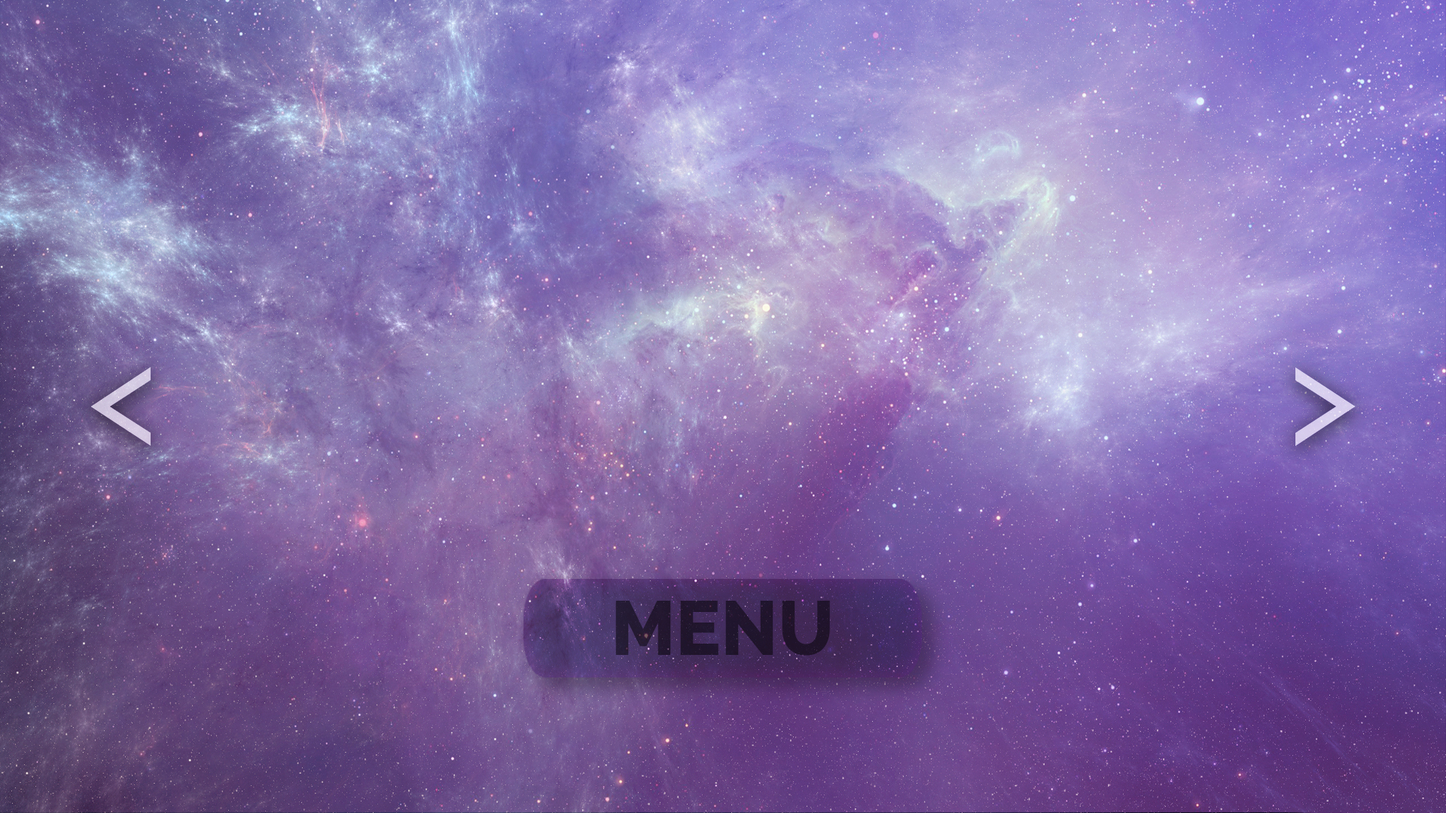
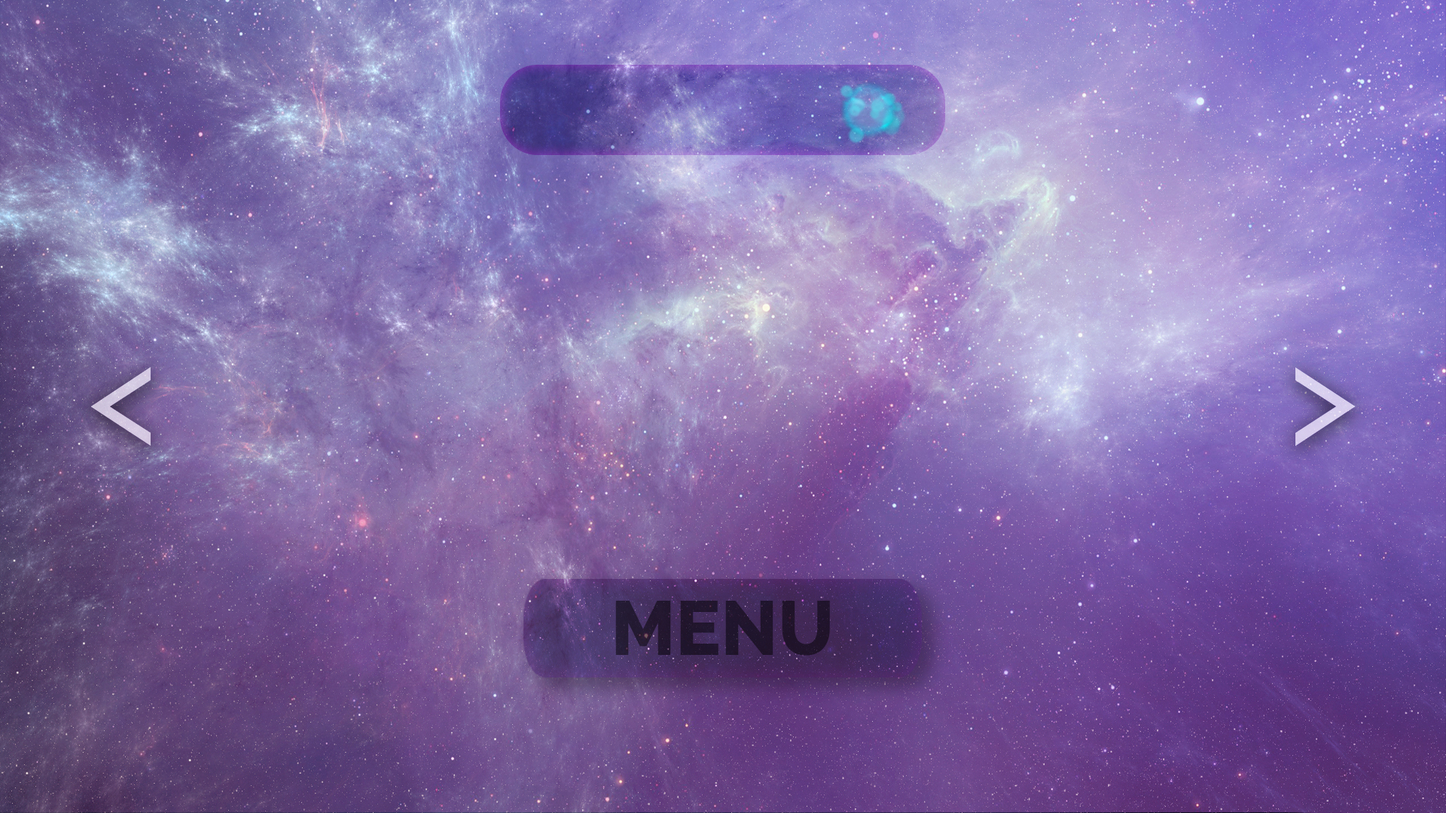
Added click/drag buttons, total energy in hangar

Changed region(s): [[0.3438, 0.0611, 0.6562, 0.2139]]

diff --git a/Game/core/src/com/tastysandwich/gameworld/GameRenderer.java b/Game/core/src/com/tastysandwich/gameworld/GameRenderer.java
@@ -7,7 +7,6 @@ import com.badlogic.gdx.graphics.Texture;
 import com.badlogic.gdx.graphics.g2d.Animation;
 import com.badlogic.gdx.graphics.g2d.Sprite;
 import com.badlogic.gdx.graphics.g2d.SpriteBatch;
-import com.badlogic.gdx.scenes.scene2d.utils.SpriteDrawable;
 import com.tastysandwich.gameobjects.Ship;
 import com.tastysandwich.gameobjects.Energy;
 import com.tastysandwich.helpers.AssetLoader;
@@ -143,7 +142,7 @@ public class GameRenderer {
     private void renderPause(float runTime) {
         drawBackground(false);
         batcher.enableBlending();
-        batcher.draw(shipAnimation.getKeyFrame(runTime), ship.getX(), ship.getY(), ship.getWidth() / 2.0f, ship.getHeight() / 2.0f, ship.getWidth(), ship.getHeight(), 1, 1, ship.getRotation());
+        batcher.draw(shipAnimation.getKeyFrame(runTime), ship.getX(), ship.getY(), ship.getWidth() / 1.5f, ship.getHeight() / 2.0f, ship.getWidth(), ship.getHeight(), 1, 1, ship.getRotation());
         for (int i = 0; i <= myWorld.nAsteroids; i++) {
             batcher.draw(textAsteroids[myWorld.asteroids[i].getType()], myWorld.asteroids[i].getX(), myWorld.asteroids[i].getY(), myWorld.asteroids[i].getRadius() / 2.0f, myWorld.asteroids[i].getRadius() / 2.0f,  myWorld.asteroids[i].getRadius(), myWorld.asteroids[i].getRadius(), 1, 1,
                     myWorld.asteroids[i].getRotation(), 0, 0, 1000, 1000, false, false);
@@ -154,19 +153,19 @@ public class GameRenderer {
         }
         hit.draw(batcher);
         renderEnergyBar();
+        pauseScreen.draw(batcher);
         AssetLoader.font.draw(batcher, "" + myWorld.getScore(), width / 2 - AssetLoader.font.getBounds(String.valueOf(myWorld.getScore())).width / 2, height / 16);
         if (myWorld.getMusicPlay()) {
             soundsT.draw(batcher);
         } else {
             soundsF.draw(batcher);
         }
-        pauseScreen.draw(batcher);
     }
 
     private void renderReady(float runTime) {
         drawBackground(true);
         batcher.enableBlending();
-        batcher.draw(shipAnimation.getKeyFrame(runTime), ship.getX(), ship.getY(), ship.getWidth() / 2.0f, ship.getHeight() / 2.0f, ship.getWidth(), ship.getHeight(), 1, 1, ship.getRotation());
+        batcher.draw(shipAnimation.getKeyFrame(runTime), ship.getX(), ship.getY(), ship.getWidth() / 1.5f, ship.getHeight() / 2.0f, ship.getWidth(), ship.getHeight(), 1, 1, ship.getRotation());
         renderEnergyBar();
         AssetLoader.font.draw(batcher, "" + myWorld.getScore(), width / 2 - AssetLoader.font.getBounds(String.valueOf(myWorld.getScore())).width / 2, height / 16);
         startScreen.draw(batcher);
@@ -215,7 +214,7 @@ public class GameRenderer {
     private void renderRunning(float runTime, float delta) {
         drawBackground(true);
         batcher.enableBlending();
-        batcher.draw(shipAnimation.getKeyFrame(runTime), ship.getX(), ship.getY(), ship.getWidth() / 2.0f, ship.getHeight() / 2.0f, ship.getWidth(), ship.getHeight(), 1, 1, ship.getRotation());
+        batcher.draw(shipAnimation.getKeyFrame(runTime), ship.getX(), ship.getY(), ship.getWidth() / 1.5f, ship.getHeight() / 2.0f, ship.getWidth(), ship.getHeight(), 1, 1, ship.getRotation());
         for (int i = 0; i <= myWorld.nAsteroids; i++) {
             batcher.draw(textAsteroids[myWorld.asteroids[i].getType()], myWorld.asteroids[i].getX(), myWorld.asteroids[i].getY(), myWorld.asteroids[i].getRadius() / 2.0f, myWorld.asteroids[i].getRadius() / 2.0f,  myWorld.asteroids[i].getRadius(), myWorld.asteroids[i].getRadius(), 1, 1,
                     myWorld.asteroids[i].getRotation(), 0, 0, 1000, 1000, false, false);
@@ -235,7 +234,7 @@ public class GameRenderer {
     private void renderDying(float runTime, float delta) {
         drawBackground(true);
         batcher.enableBlending();
-        batcher.draw(shipAnimation.getKeyFrame(runTime), ship.getX(), ship.getY(), ship.getWidth() / 2.0f, ship.getHeight() / 2.0f, ship.getWidth(), ship.getHeight(), 1, 1, ship.getRotation());
+        batcher.draw(shipAnimation.getKeyFrame(runTime), ship.getX(), ship.getY(), ship.getWidth() / 1.5f, ship.getHeight() / 2.0f, ship.getWidth(), ship.getHeight(), 1, 1, ship.getRotation());
         batcher.draw(explosionAnimation.getKeyFrame(myWorld.dyingTime), ship.getX()- ship.getWidth() / 4, ship.getY(), ship.getWidth() * 1.5f, ship.getHeight()*1.5f);
         hit.setAlpha(myWorld.cracksAlpha);
         hit.draw(batcher);

diff --git a/Game/core/src/com/tastysandwich/screens/HangarScreen.java b/Game/core/src/com/tastysandwich/screens/HangarScreen.java
@@ -51,7 +51,7 @@ public class HangarScreen implements Screen {
 
     private BitmapFont font;
 
-    private int energyLeft1, energyLeft2;
+    private int energyLeft1, energyLeft2, totalEnergy;
 
     public HangarScreen(final float width, final float height, final MainClass game, AdsController adsController, AssetManager manager) {
         this.manager = manager;
@@ -70,8 +70,9 @@ public class HangarScreen implements Screen {
         batcher = new SpriteBatch();
         batcher.setProjectionMatrix(cam.combined);
 
-        energyLeft1 = (100-AssetLoader.getTotalEnergy());
-        energyLeft2 = (200-AssetLoader.getTotalEnergy());
+        totalEnergy = AssetLoader.getTotalEnergy();
+        energyLeft1 = (100-totalEnergy);
+        energyLeft2 = (300-totalEnergy);
         nship = AssetLoader.getSelectedShip();
         hangarBackground = AssetLoader.hangarBackground;
         hangarShips = AssetLoader.hangarShips;
@@ -96,7 +97,7 @@ public class HangarScreen implements Screen {
         if (nship == 1 && AssetLoader.getTotalEnergy() < 100) {
             hangarShips[6].draw(batcher);
             font.draw(batcher, "You need "+energyLeft1+" more energy", width / 2 - font.getBounds("You need"+energyLeft1+" more energy").width / 2, height / 2 - font.getBounds(""+energyLeft1).height);
-        } else if (nship == 2 && AssetLoader.getTotalEnergy() < 200) {
+        } else if (nship == 2 && AssetLoader.getTotalEnergy() < 300) {
             hangarShips[6].draw(batcher);
             font.draw(batcher, "You need "+energyLeft2+" more energy", width / 2 - font.getBounds("You need"+energyLeft2+" more energy").width / 2, height / 2 - font.getBounds(""+energyLeft2).height);
         } else if (AssetLoader.getSelectedShip()== nship) {
@@ -104,6 +105,7 @@ public class HangarScreen implements Screen {
         } else {
             hangarShips[nship].draw(batcher);
         }
+        font.draw(batcher, ""+totalEnergy, width / 16 * 9 - font.getBounds(""+totalEnergy).width, height / 12);
         batcher.end();
 
     }
@@ -147,15 +149,15 @@ public class HangarScreen implements Screen {
     }
 
     public void moveLeft() {
-        if (nship== 2) nship =0; else nship++;
-    }
-
-    public void moveRight() {
         if (nship== 0) nship =2; else nship--;
     }
 
+    public void moveRight() {
+        if (nship== 2) nship =0; else nship++;
+    }
+
     public void changeShip() {
-        if (nship == 2 && AssetLoader.getTotalEnergy() < 200) {
+        if (nship == 2 && AssetLoader.getTotalEnergy() < 300) {
             // do nothing
         }else if(nship == 1 && AssetLoader.getTotalEnergy() < 100){
             // do nothing #2

diff --git a/Game/core/src/com/tastysandwich/gameobjects/Ship.java b/Game/core/src/com/tastysandwich/gameobjects/Ship.java
@@ -61,27 +61,27 @@ public class Ship {
         goToY = (int) ((int) position.y+height/2);
         goToX = (int) position.x;
         aVertices = new float[] {
-                width / 2, 0,
-                width / 4 , height / 4 ,
-                -width / 4, height / 16 * 7,
-                -width / 4, -height / 16 * 7,
-                width / 4, -height / 4};
+                width / 3, 0,
+                /*0 , height / 5 ,*/
+                -width / 3, height / 16 * 7,
+                -width / 3, -height / 16 * 7
+                /*0, -height / 5*/};
         boundingPolygon.setVertices(aVertices);
         goTop = false;
         stopped = true;
     }
     public void update(float delta){
-        originX = (position.x + width / 2);
+        originX = (position.x + width / 1.5f);
         originY = (position.y + height / 2);
 
         if(clicking) {
             position.add(velocity.cpy().scl(delta));
-            if(position.y > 0 - offset && position.y < 0 + offset ) {
+            if(position.y > 0 - offset && position.y < 0 + offset && world.currentState != GameWorld.GameState.DYING ) {
                 velocity.y = 0;
                 destinedRotation = 0;
                 position.y = offset;
                 stopped = true;
-            }else if (position.y < world.height - height + offset && position.y > world.height - height - offset){
+            }else if (position.y < world.height - height + offset && position.y > world.height - height - offset && world.currentState != GameWorld.GameState.DYING ){
                 velocity.y = 0;
                 destinedRotation = 0;
                 position.y = world.height - height - offset;

diff --git a/Game/core/src/com/tastysandwich/screens/Menu.java b/Game/core/src/com/tastysandwich/screens/Menu.java
@@ -41,7 +41,7 @@ public class Menu implements Screen {
 
     private boolean playSounds;
 
-    private SpriteDrawable imgbPlay,imgbHangar, imgbSoundsT, imgbSoundsF;
+    private SpriteDrawable imgbPlay,imgbHangar, imgbSoundsT, imgbSoundsF, imgbClick, imgbDrag;
 
     private Sprite menuBackground;
 
@@ -88,15 +88,17 @@ public class Menu implements Screen {
         imgbHangar = AssetLoader.sdHangar;
         imgbSoundsT = AssetLoader.sdSoundsT;
         imgbSoundsF = AssetLoader.sdSoundsF;
+        imgbClick = AssetLoader.sdClick;
+        imgbDrag = AssetLoader.sdDrag;
 
-        Clicking = new ImageButton(imgbPlay);
+        Clicking = new ImageButton(imgbClick);
         Clicking.setPosition(width / 2 - width / 16 * 5, height / 24 * 7);
         Clicking.addListener(new InputListener() {
             public boolean touchDown (InputEvent event, float x, float y, int pointer, int button) {
                 game.setScreen(new GameScreen(width, height, adsController, game, manager, music, true));
                 return true;
             }});
-        Dragging = new ImageButton(imgbPlay);
+        Dragging = new ImageButton(imgbDrag);
         Dragging.setPosition(width / 2, height / 24 * 7);
         Dragging.addListener(new InputListener() {
             public boolean touchDown (InputEvent event, float x, float y, int pointer, int button) {

diff --git a/Game/core/src/com/tastysandwich/helpers/AssetLoader.java b/Game/core/src/com/tastysandwich/helpers/AssetLoader.java
@@ -45,7 +45,7 @@ public class AssetLoader {
     /////////////////////////////////////MENU ASSETS////////////////////////////////////////////
     public static Sprite sMenuBackground, hangarBackground;
 
-    public static SpriteDrawable sdPlay,sdHangar, sdSoundsT, sdSoundsF;
+    public static SpriteDrawable sdPlay,sdHangar, sdSoundsT, sdSoundsF, sdClick, sdDrag;
 
 
 
@@ -121,6 +121,18 @@ public class AssetLoader {
         sprite.setSize(width / 16 * 5, height / 20 * 3);
         sprite.flip(false,true);
         sdHangar = new SpriteDrawable(sprite);
+
+        texture = new Texture("data/skins/click.png");
+        sprite = new Sprite(texture);
+        sprite.setSize(width / 16 * 5, height / 20 * 3);
+        sprite.flip(false,true);
+        sdClick = new SpriteDrawable(sprite);
+
+        texture = new Texture("data/skins/drag.png");
+        sprite = new Sprite(texture);
+        sprite.setSize(width / 16 * 5, height / 20 * 3);
+        sprite.flip(false,true);
+        sdDrag = new SpriteDrawable(sprite);
 
         //BUTTON SOUNDS TRUE
         texture = new Texture("data/soundsT.png");

diff --git a/Game/core/src/com/tastysandwich/helpers/InputHandler.java b/Game/core/src/com/tastysandwich/helpers/InputHandler.java
@@ -63,7 +63,7 @@ public class InputHandler implements InputProcessor {
         if (world.getCurrentState() == GameWorld.GameState.RUNNING && clicking) {
             ship.onClick(screenX, screenY);
         }
-        if (world.getCurrentState() == GameWorld.GameState.PAUSE) {
+        if (world.getCurrentState() == GameWorld.GameState.PAUSE && world.getSoundsRect().contains(screenX,screenY)) {
             if (world.getMusicPlay()) {
                 world.turnOffMusic();
                 AssetLoader.setSounds(false);

diff --git a/Game/core/src/com/tastysandwich/gameworld/GameWorld.java b/Game/core/src/com/tastysandwich/gameworld/GameWorld.java
@@ -58,12 +58,12 @@ public class GameWorld {
 
     public void turnOnMusic() {
         music.play();
-        musicPlay = false;
+        musicPlay = true;
     }
 
     public void turnOffMusic() {
         music.stop();
-        musicPlay = true;
+        musicPlay = false;
     }
 
     public enum GameState {
